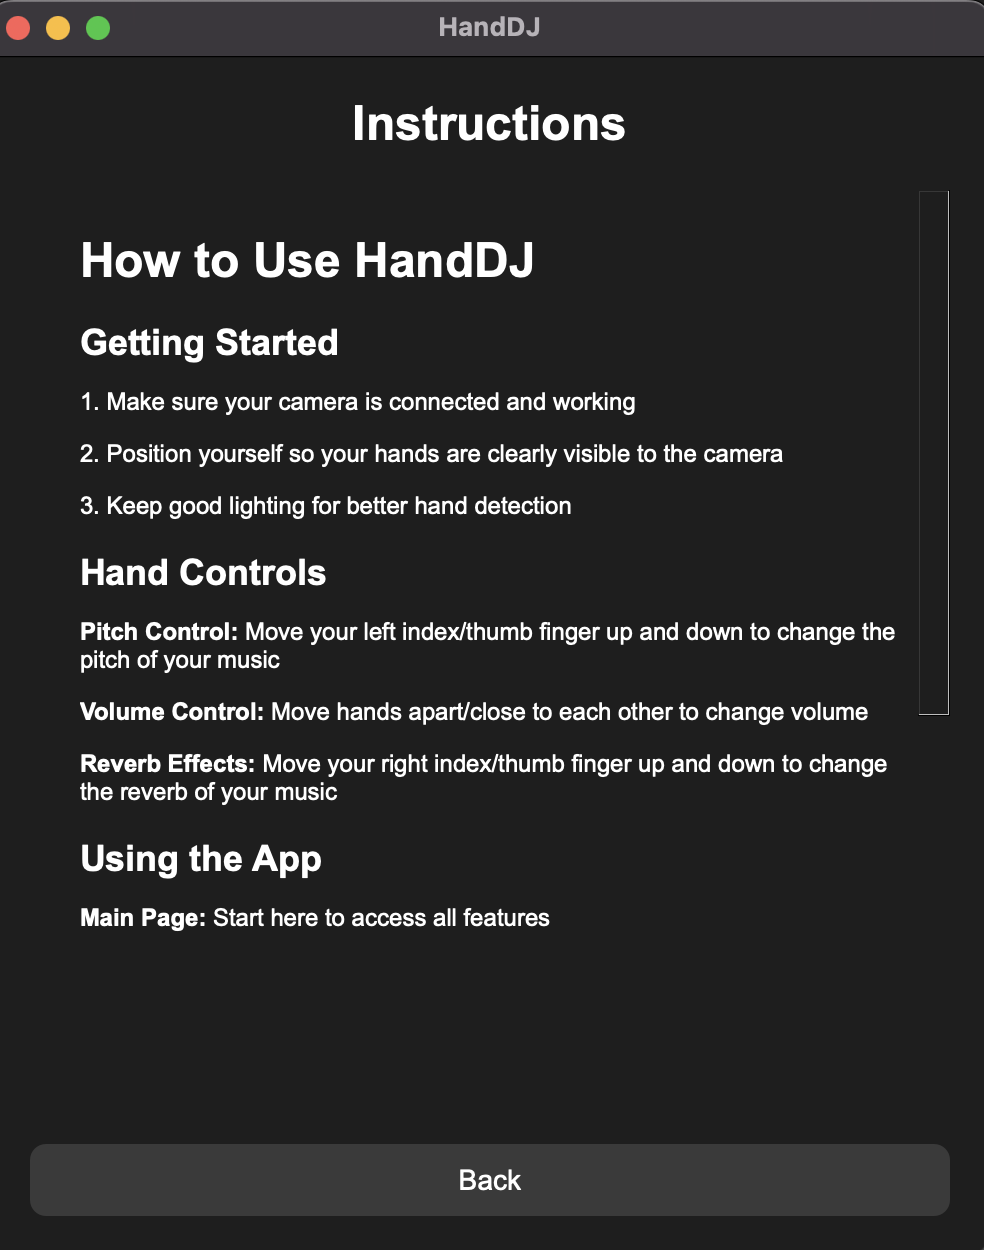
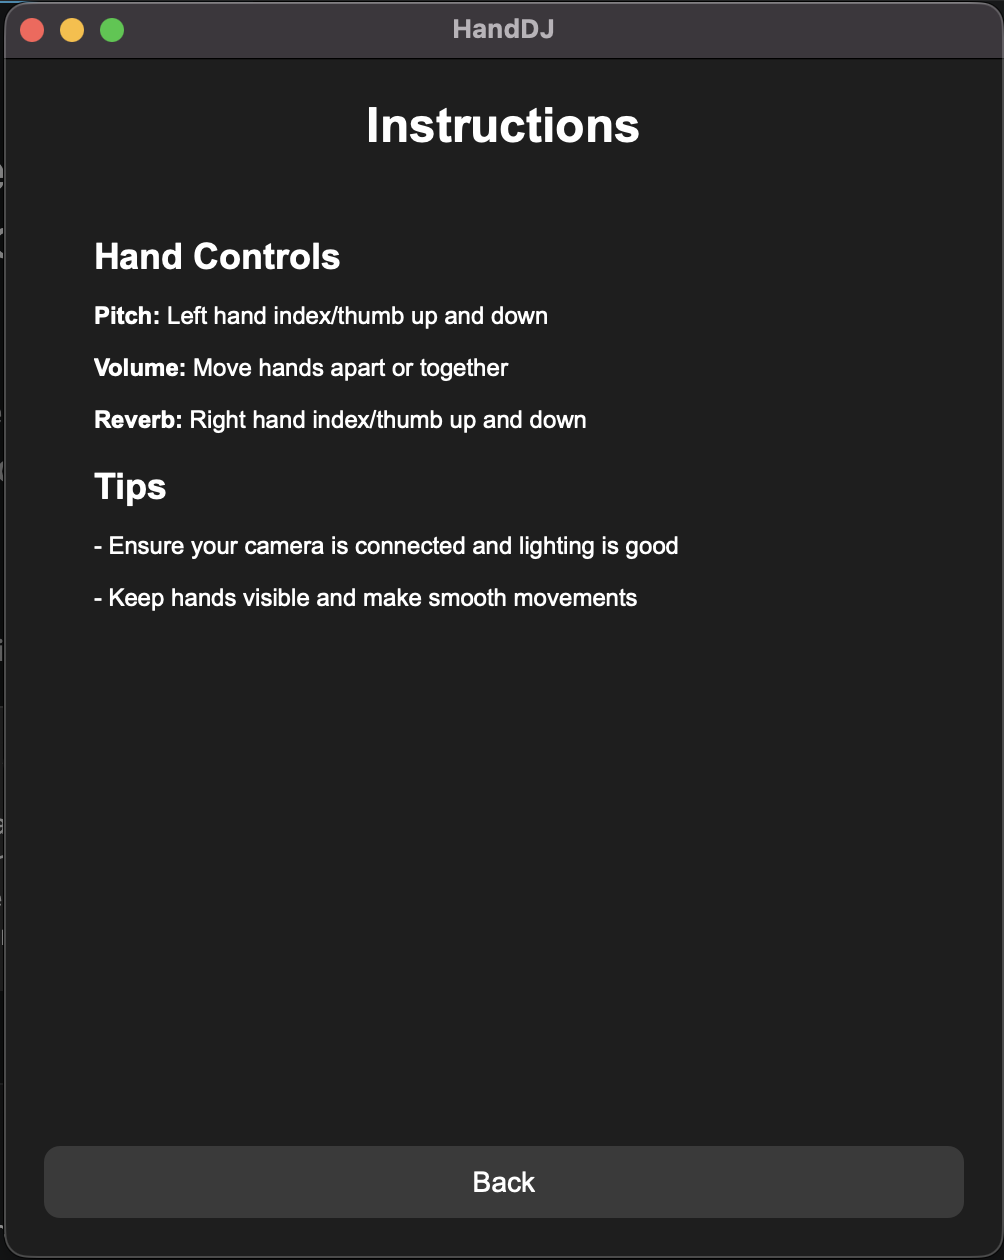
Update README and add new screenshots

diff --git a/README.md b/README.md
@@ -41,10 +41,12 @@ Each control can be toggled on/off from the control page.
 **Smoothing:** Hand inputs are buffered (last 5 readings) and averaged, then blended with the current value using a smoothing factor. Volume uses a lower smoothing factor (0.1 vs 0.2) so it feels more responsive to hand movement.
 
 ## Screenshots
-
+![hands](screenshots/hands.png)
+![controller](screenshots/controller.png)
 ![menu](screenshots/menu.png)
 ![instructions](screenshots/instructions.png)
 ![play](screenshots/play.png)
+
 
 ## License
 
